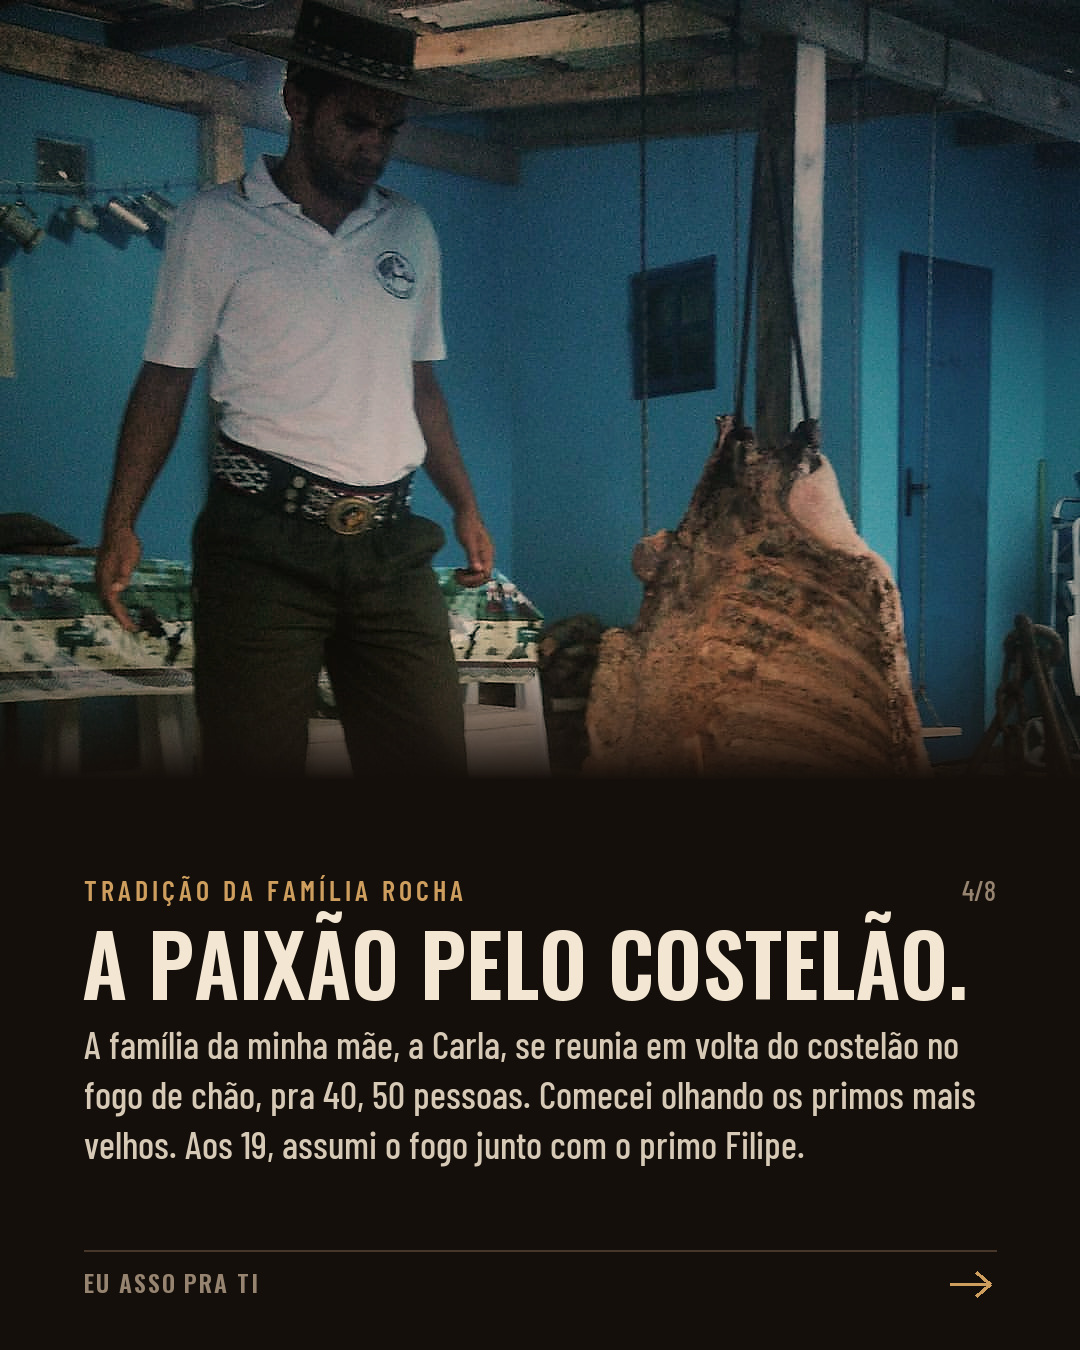
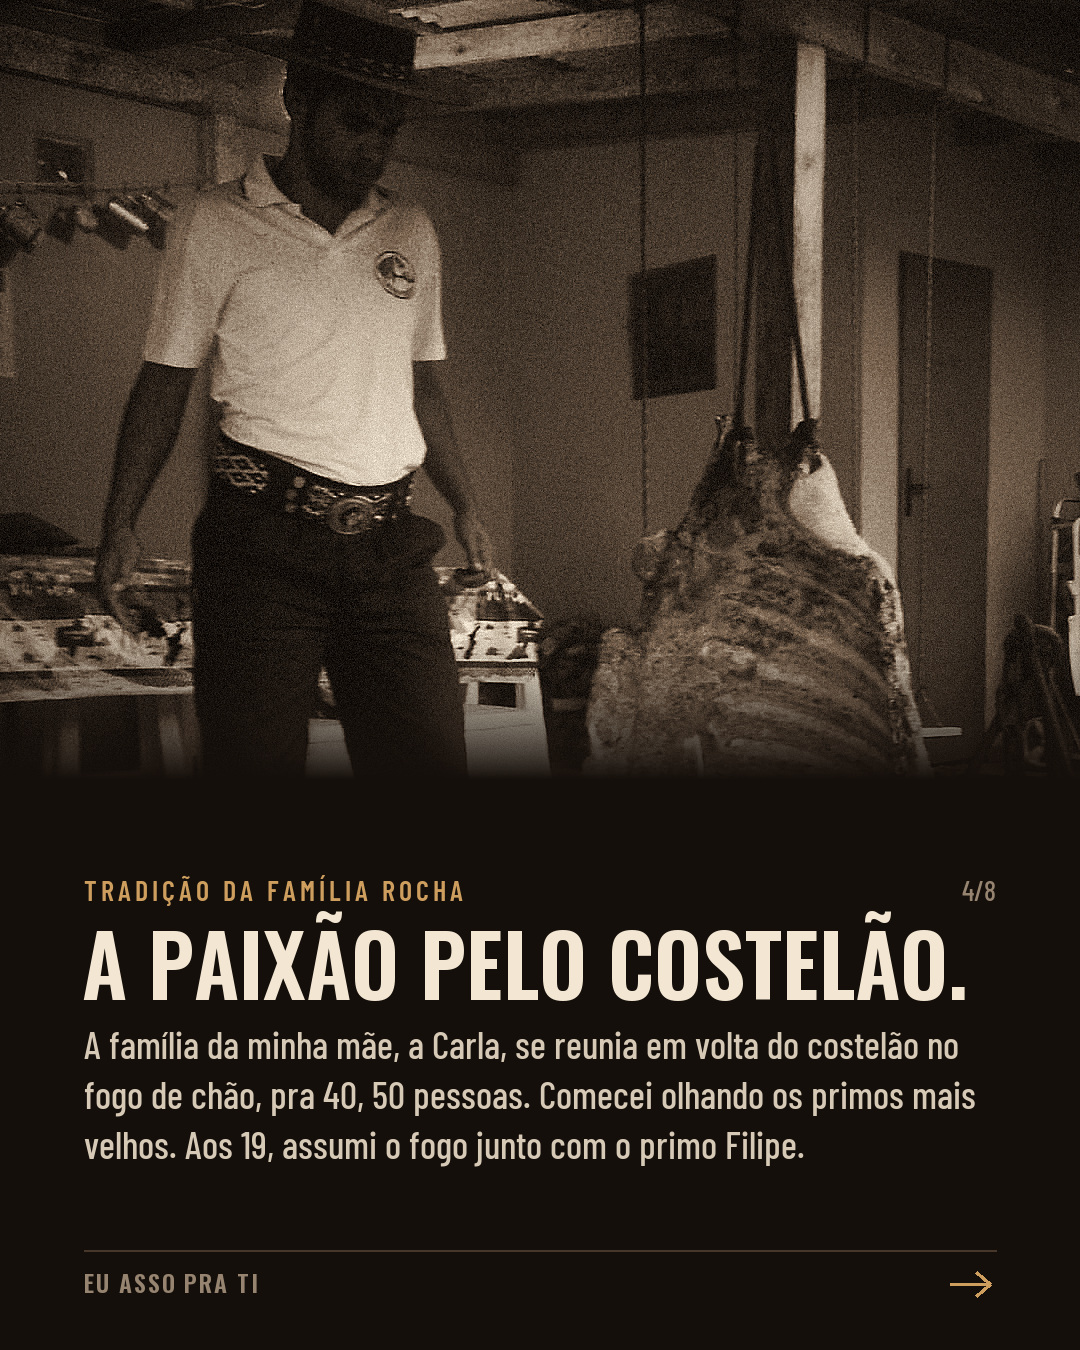
Post 11: passado em preto e branco, cor a partir do primeiro evento

diff --git a/calendario/index.html b/calendario/index.html
@@ -11,7 +11,7 @@
 --display:"Oswald","Arial Narrow",sans-serif;--label:"Barlow Condensed","Arial Narrow",sans-serif;--text:"Barlow",system-ui,sans-serif;color-scheme:dark}
 *{box-sizing:border-box}
 body{margin:0;background:var(--bg);color:var(--body);font:400 1.0625rem/1.6 var(--text)}
-.hero{position:relative;min-height:min(78vh,620px);display:grid;align-items:end;background:#000 url(img/p11-01.jpg?v=1793367602) center 40%/cover}
+.hero{position:relative;min-height:min(78vh,620px);display:grid;align-items:end;background:#000 url(img/p11-01.jpg?v=1793370726) center 40%/cover}
 .hero::after{content:"";position:absolute;inset:0;background:linear-gradient(180deg,rgba(21,15,11,.2) 0%,rgba(21,15,11,.55) 45%,var(--bg) 100%)}
 .hero .in{position:relative;z-index:1;max-width:760px;margin:0 auto;width:100%;padding:0 20px 36px}
 h1,h2{font-family:var(--display);font-weight:600;text-transform:uppercase;color:var(--fg);line-height:1.05;margin:0;text-wrap:balance}
@@ -87,7 +87,7 @@ footer{font:500 .9rem var(--label);color:var(--muted);letter-spacing:.06em;borde
   <h2>Post 10: a focaccia que virou assunto (reels)</h2>
   <p>O vídeo do aniversário de sábado. Abre com a focaccia na grelha e o fogo, e a cliente vai narrando por cima do making of: o choripán de focaccia, "receita exclusiva do Eu Asso pra Ti", a salsa que fez toda a diferença. Depois vem a bandeja passando, ela provando e fazendo joinha, e o depoimento: "foi uma viagem, superou a expectativa". Fecha com o logo e o WhatsApp. Com legenda na tela, porque a maioria assiste sem som.</p>
   <div class="car" aria-label="Vídeo do post 10">
-    <video src="video/p10-reels.mp4?v=1793367602" controls playsinline preload="metadata" poster="img/p10-capa.jpg" style="width:min(78%,330px);flex:none;border-radius:8px;aspect-ratio:9/16;object-fit:cover;box-shadow:0 10px 30px rgba(0,0,0,.4)"></video>
+    <video src="video/p10-reels.mp4?v=1793370726" controls playsinline preload="metadata" poster="img/p10-capa.jpg" style="width:min(78%,330px);flex:none;border-radius:8px;aspect-ratio:9/16;object-fit:cover;box-shadow:0 10px 30px rgba(0,0,0,.4)"></video>
   </div>
   <p class="hint">Aperta o play com som: tem a voz da cliente e um violão latino de fundo.</p>
   <details><summary>Ver a legenda</summary><div class="cap">A focaccia que virou assunto na festa 🔥
@@ -106,16 +106,16 @@ Tem festa vindo aí? Me chama no WhatsApp pelo link da bio ou no (51) 99565-7817
 <section>
   <div class="post-head"><p class="k" style="margin:0">Sábado 31/10 · 19h</p><span class="tag">Aguardando teu ok</span></div>
   <h2>Post 11: como tudo começou</h2>
-  <p>A tua história, com os teus ajustes: o primeiro churrasco aos 12 do lado do padrinho, a regra do tio Agapio (com a camisa editada), o costelão da família Rocha, a turma da faculdade, o primeiro evento, onde nasceu o nome, e a prova de fogo com os mestres, com o matambrito e a frase do tio. Com as fotos que tu escolheu, tratadas pra conversar com o resto do feed.</p>
+  <p>A tua história, com os teus ajustes: o primeiro churrasco aos 12 do lado do padrinho, a regra do tio Agapio (com a camisa editada), o costelão da família Rocha, a turma da faculdade, o primeiro evento, onde nasceu o nome, e a prova de fogo com os mestres, com o matambrito e a frase do tio. O passado vem em preto e branco, como foto de arquivo, e a cor entra no primeiro evento, quando a paixão vira profissão.</p>
   <div class="car" aria-label="Imagens do post 11">
-    <img src="img/p11-01.jpg?v=1793367602" alt="Capa: Como tudo começou" loading="lazy">
-    <img src="img/p11-02.jpg?v=1793367602" alt="Aos 12, o meu primeiro churrasco" loading="lazy">
-    <img src="img/p11-03.jpg?v=1793367602" alt="Não vou afinar meu violão pros outros tocar" loading="lazy">
-    <img src="img/p11-04.jpg?v=1793367602" alt="A paixão pelo costelão" loading="lazy">
-    <img src="img/p11-05.jpg?v=1793367602" alt="O amigo do churrasco" loading="lazy">
-    <img src="img/p11-06.jpg?v=1793367602" alt="Eu asso pra ti" loading="lazy">
-    <img src="img/p11-07.jpg?v=1793367602" alt="Os mestres provaram" loading="lazy">
-    <img src="img/p11-08.jpg?v=1793367602" alt="De amigo que assa a assador" loading="lazy">
+    <img src="img/p11-01.jpg?v=1793370726" alt="Capa: Como tudo começou" loading="lazy">
+    <img src="img/p11-02.jpg?v=1793370726" alt="Aos 12, o meu primeiro churrasco" loading="lazy">
+    <img src="img/p11-03.jpg?v=1793370726" alt="Não vou afinar meu violão pros outros tocar" loading="lazy">
+    <img src="img/p11-04.jpg?v=1793370726" alt="A paixão pelo costelão" loading="lazy">
+    <img src="img/p11-05.jpg?v=1793370726" alt="O amigo do churrasco" loading="lazy">
+    <img src="img/p11-06.jpg?v=1793370726" alt="Eu asso pra ti" loading="lazy">
+    <img src="img/p11-07.jpg?v=1793370726" alt="Os mestres provaram" loading="lazy">
+    <img src="img/p11-08.jpg?v=1793370726" alt="De amigo que assa a assador" loading="lazy">
   </div>
   <p class="hint">Arrasta para o lado para ver as 8 imagens.</p>
   <details><summary>Ver a legenda</summary><div class="cap">Como tudo começou 🔥
@@ -144,11 +144,11 @@ Tem festa vindo aí? Me chama no WhatsApp pelo link da bio ou no (51) 99565-7817
   <h2>Post 12: os cortes da festa</h2>
   <p>Com as fotos que tu subiu do aniversário de sábado: os cortes nobres marmorizados, a linguiça, o vinho do lado. Mostra o cuidado antes do fogo acender e fecha chamando pro WhatsApp.</p>
   <div class="car" aria-label="Imagens do post 12">
-    <img src="img/p12-01.jpg?v=1793367602" alt="Capa: Os cortes da festa" loading="lazy">
-    <img src="img/p12-02.jpg?v=1793367602" alt="Cada peça escolhida" loading="lazy">
-    <img src="img/p12-03.jpg?v=1793367602" alt="Do corte nobre à linguiça" loading="lazy">
-    <img src="img/p12-04.jpg?v=1793367602" alt="Um bom vinho do lado" loading="lazy">
-    <img src="img/p12-05.jpg?v=1793367602" alt="A tua pode ser a próxima" loading="lazy">
+    <img src="img/p12-01.jpg?v=1793370726" alt="Capa: Os cortes da festa" loading="lazy">
+    <img src="img/p12-02.jpg?v=1793370726" alt="Cada peça escolhida" loading="lazy">
+    <img src="img/p12-03.jpg?v=1793370726" alt="Do corte nobre à linguiça" loading="lazy">
+    <img src="img/p12-04.jpg?v=1793370726" alt="Um bom vinho do lado" loading="lazy">
+    <img src="img/p12-05.jpg?v=1793370726" alt="A tua pode ser a próxima" loading="lazy">
   </div>
   <p class="hint">Arrasta para o lado para ver as 5 imagens.</p>
   <details><summary>Ver a legenda</summary><div class="cap">Os cortes da festa 🔥

diff --git a/semana/index.html b/semana/index.html
@@ -11,7 +11,7 @@
 --display:"Oswald","Arial Narrow",sans-serif;--label:"Barlow Condensed","Arial Narrow",sans-serif;--text:"Barlow",system-ui,sans-serif;color-scheme:dark}
 *{box-sizing:border-box}
 body{margin:0;background:var(--bg);color:var(--body);font:400 1.0625rem/1.6 var(--text)}
-.hero{position:relative;min-height:min(78vh,620px);display:grid;align-items:end;background:#000 url(img/p5-02.jpg?v=1793367602) center 40%/cover}
+.hero{position:relative;min-height:min(78vh,620px);display:grid;align-items:end;background:#000 url(img/p5-02.jpg?v=1793370726) center 40%/cover}
 .hero::after{content:"";position:absolute;inset:0;background:linear-gradient(180deg,rgba(21,15,11,.2) 0%,rgba(21,15,11,.55) 45%,var(--bg) 100%)}
 .hero .in{position:relative;z-index:1;max-width:760px;margin:0 auto;width:100%;padding:0 20px 36px}
 h1,h2{font-family:var(--display);font-weight:600;text-transform:uppercase;color:var(--fg);line-height:1.05;margin:0;text-wrap:balance}
@@ -81,13 +81,13 @@ footer{font:500 .9rem var(--label);color:var(--muted);letter-spacing:.06em;borde
   <h2>Post 5: gastronomia de fogo</h2>
   <p>Carrossel de 7 imagens: a carne de qualidade, cada uma no seu ponto, os legumes, o fatiado na hora, a sobremesa no fogo e o convite pra conversar.</p>
   <div class="car" aria-label="Imagens do post 5">
-    <img src="img/p5-01.jpg?v=1793367602" alt="Capa: Gastronomia de fogo" loading="lazy">
-    <img src="img/p5-02.jpg?v=1793367602" alt="Carne de qualidade" loading="lazy">
-    <img src="img/p5-03.jpg?v=1793367602" alt="Cada carne no seu ponto" loading="lazy">
-    <img src="img/p5-04.jpg?v=1793367602" alt="Os legumes também vão pro fogo" loading="lazy">
-    <img src="img/p5-05.jpg?v=1793367602" alt="Fatiado na hora" loading="lazy">
-    <img src="img/p5-06.jpg?v=1793367602" alt="E a sobremesa? No fogo, é claro" loading="lazy">
-    <img src="img/p5-07.jpg?v=1793367602" alt="Tem festa vindo aí?" loading="lazy">
+    <img src="img/p5-01.jpg?v=1793370726" alt="Capa: Gastronomia de fogo" loading="lazy">
+    <img src="img/p5-02.jpg?v=1793370726" alt="Carne de qualidade" loading="lazy">
+    <img src="img/p5-03.jpg?v=1793370726" alt="Cada carne no seu ponto" loading="lazy">
+    <img src="img/p5-04.jpg?v=1793370726" alt="Os legumes também vão pro fogo" loading="lazy">
+    <img src="img/p5-05.jpg?v=1793370726" alt="Fatiado na hora" loading="lazy">
+    <img src="img/p5-06.jpg?v=1793370726" alt="E a sobremesa? No fogo, é claro" loading="lazy">
+    <img src="img/p5-07.jpg?v=1793370726" alt="Tem festa vindo aí?" loading="lazy">
   </div>
   <p class="hint">Arrasta para o lado para ver as 7 imagens.</p>
   <details><summary>Ver a legenda</summary><div class="cap">Gastronomia de fogo 🔥 Eu cuido do fogo, tu aproveita a festa.
@@ -114,12 +114,12 @@ Me chama no WhatsApp pelo link da bio ou no (51) 99565-7817 e me conta como tu i
   <h2>Post 6: a tua festa, do teu jeito</h2>
   <p>Aqui não tem cardápio pronto: aniversário em casa, confraternização, casamento e formatura, cada um com o seu jeito. Fecha com "me conta a tua festa".</p>
   <div class="car" aria-label="Imagens do post 6">
-    <img src="img/p6-01.jpg?v=1793367602" alt="Capa: A tua festa, do teu jeito" loading="lazy">
-    <img src="img/p6-02.jpg?v=1793367602" alt="Pra família e os amigos" loading="lazy">
-    <img src="img/p6-03.jpg?v=1793367602" alt="Pra galera da empresa" loading="lazy">
-    <img src="img/p6-04.jpg?v=1793367602" alt="Pro dia que não volta" loading="lazy">
-    <img src="img/p6-05.jpg?v=1793367602" alt="Nada de cardápio pronto" loading="lazy">
-    <img src="img/p6-06.jpg?v=1793367602" alt="Me conta a tua festa" loading="lazy">
+    <img src="img/p6-01.jpg?v=1793370726" alt="Capa: A tua festa, do teu jeito" loading="lazy">
+    <img src="img/p6-02.jpg?v=1793370726" alt="Pra família e os amigos" loading="lazy">
+    <img src="img/p6-03.jpg?v=1793370726" alt="Pra galera da empresa" loading="lazy">
+    <img src="img/p6-04.jpg?v=1793370726" alt="Pro dia que não volta" loading="lazy">
+    <img src="img/p6-05.jpg?v=1793370726" alt="Nada de cardápio pronto" loading="lazy">
+    <img src="img/p6-06.jpg?v=1793370726" alt="Me conta a tua festa" loading="lazy">
   </div>
   <p class="hint">Arrasta para o lado para ver as 6 imagens.</p>
   <details><summary>Ver a legenda</summary><div class="cap">A tua festa, do teu jeito 🔥
@@ -144,7 +144,7 @@ Me chama no WhatsApp pelo link da bio ou no (51) 99565-7817 e me conta a tua fes
 <section>
   <div class="post-head"><p class="k" style="margin:0">Terça 13/10</p><span class="tag done">No ar</span></div>
   <h2>Post 4: o primeiro Reels</h2>
-  <video class="vid" src="video/p4-reels.mp4?v=1793367602" controls playsinline preload="metadata"></video>
+  <video class="vid" src="video/p4-reels.mp4?v=1793370726" controls playsinline preload="metadata"></video>
   <details><summary>Ver a legenda</summary><div class="cap">Quando tu chega, o fogo já tá pronto 🔥
 
 Eu chego bem antes pra preparar tudo: a carne de qualidade separada pra tua festa, o fogo no ponto certinho e tudo saindo da brasa direto pra tábua, servido quentinho pra galera.
